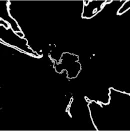
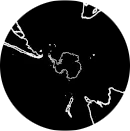
add circular mask to gnomonic

diff --git a/src/projection/gnomonic.ts b/src/projection/gnomonic.ts
@@ -2,8 +2,12 @@ import { createProjectionShader } from "./projectionShader";
 
 export const gnomonicProjection = createProjectionShader(
   `
+    if (xy.x * xy.x + xy.y * xy.y > 0.25) {
+      return BLANK;
+    }
+
     xy.x *= 2. * 2.0;
-    xy.y *= 2. * 1.0 * 2.0;
+    xy.y *= 2. * 2.0;
     float p = sqrt(xy.x * xy.x + xy.y * xy.y);
     float c = atan(p);
 

diff --git a/src/projection/robinson.ts b/src/projection/robinson.ts
@@ -60,7 +60,7 @@ export const robinsonProjection = createProjectionShader(
   float xFactor = interpolate(xTable, start, pct);
   x = x * 2.;
   if (abs(x) > xFactor) {
-    return vec2(NaN, NaN);
+    return BLANK;
   }
   // we have to revert the scaling
   float theta = x * 3.1415 / xFactor;

diff --git a/src/projection/equirectangular.ts b/src/projection/equirectangular.ts
@@ -3,7 +3,7 @@ import { createProjectionShader } from "./projectionShader";
 export const equiRectangular = createProjectionShader(
   `
     if (abs(xy.y) > 0.25) {
-      return vec2(NaN, NaN);
+      return BLANK;
     }
 
     return vec2(

diff --git a/src/projection/projectionShader.ts b/src/projection/projectionShader.ts
@@ -53,6 +53,8 @@ void main() {
 
 ${extra}
 
+#define BLANK vec2(NaN, NaN)
+
 vec2 to_spherical(vec2 xy) {
     ${toSphericalBody}
 }
